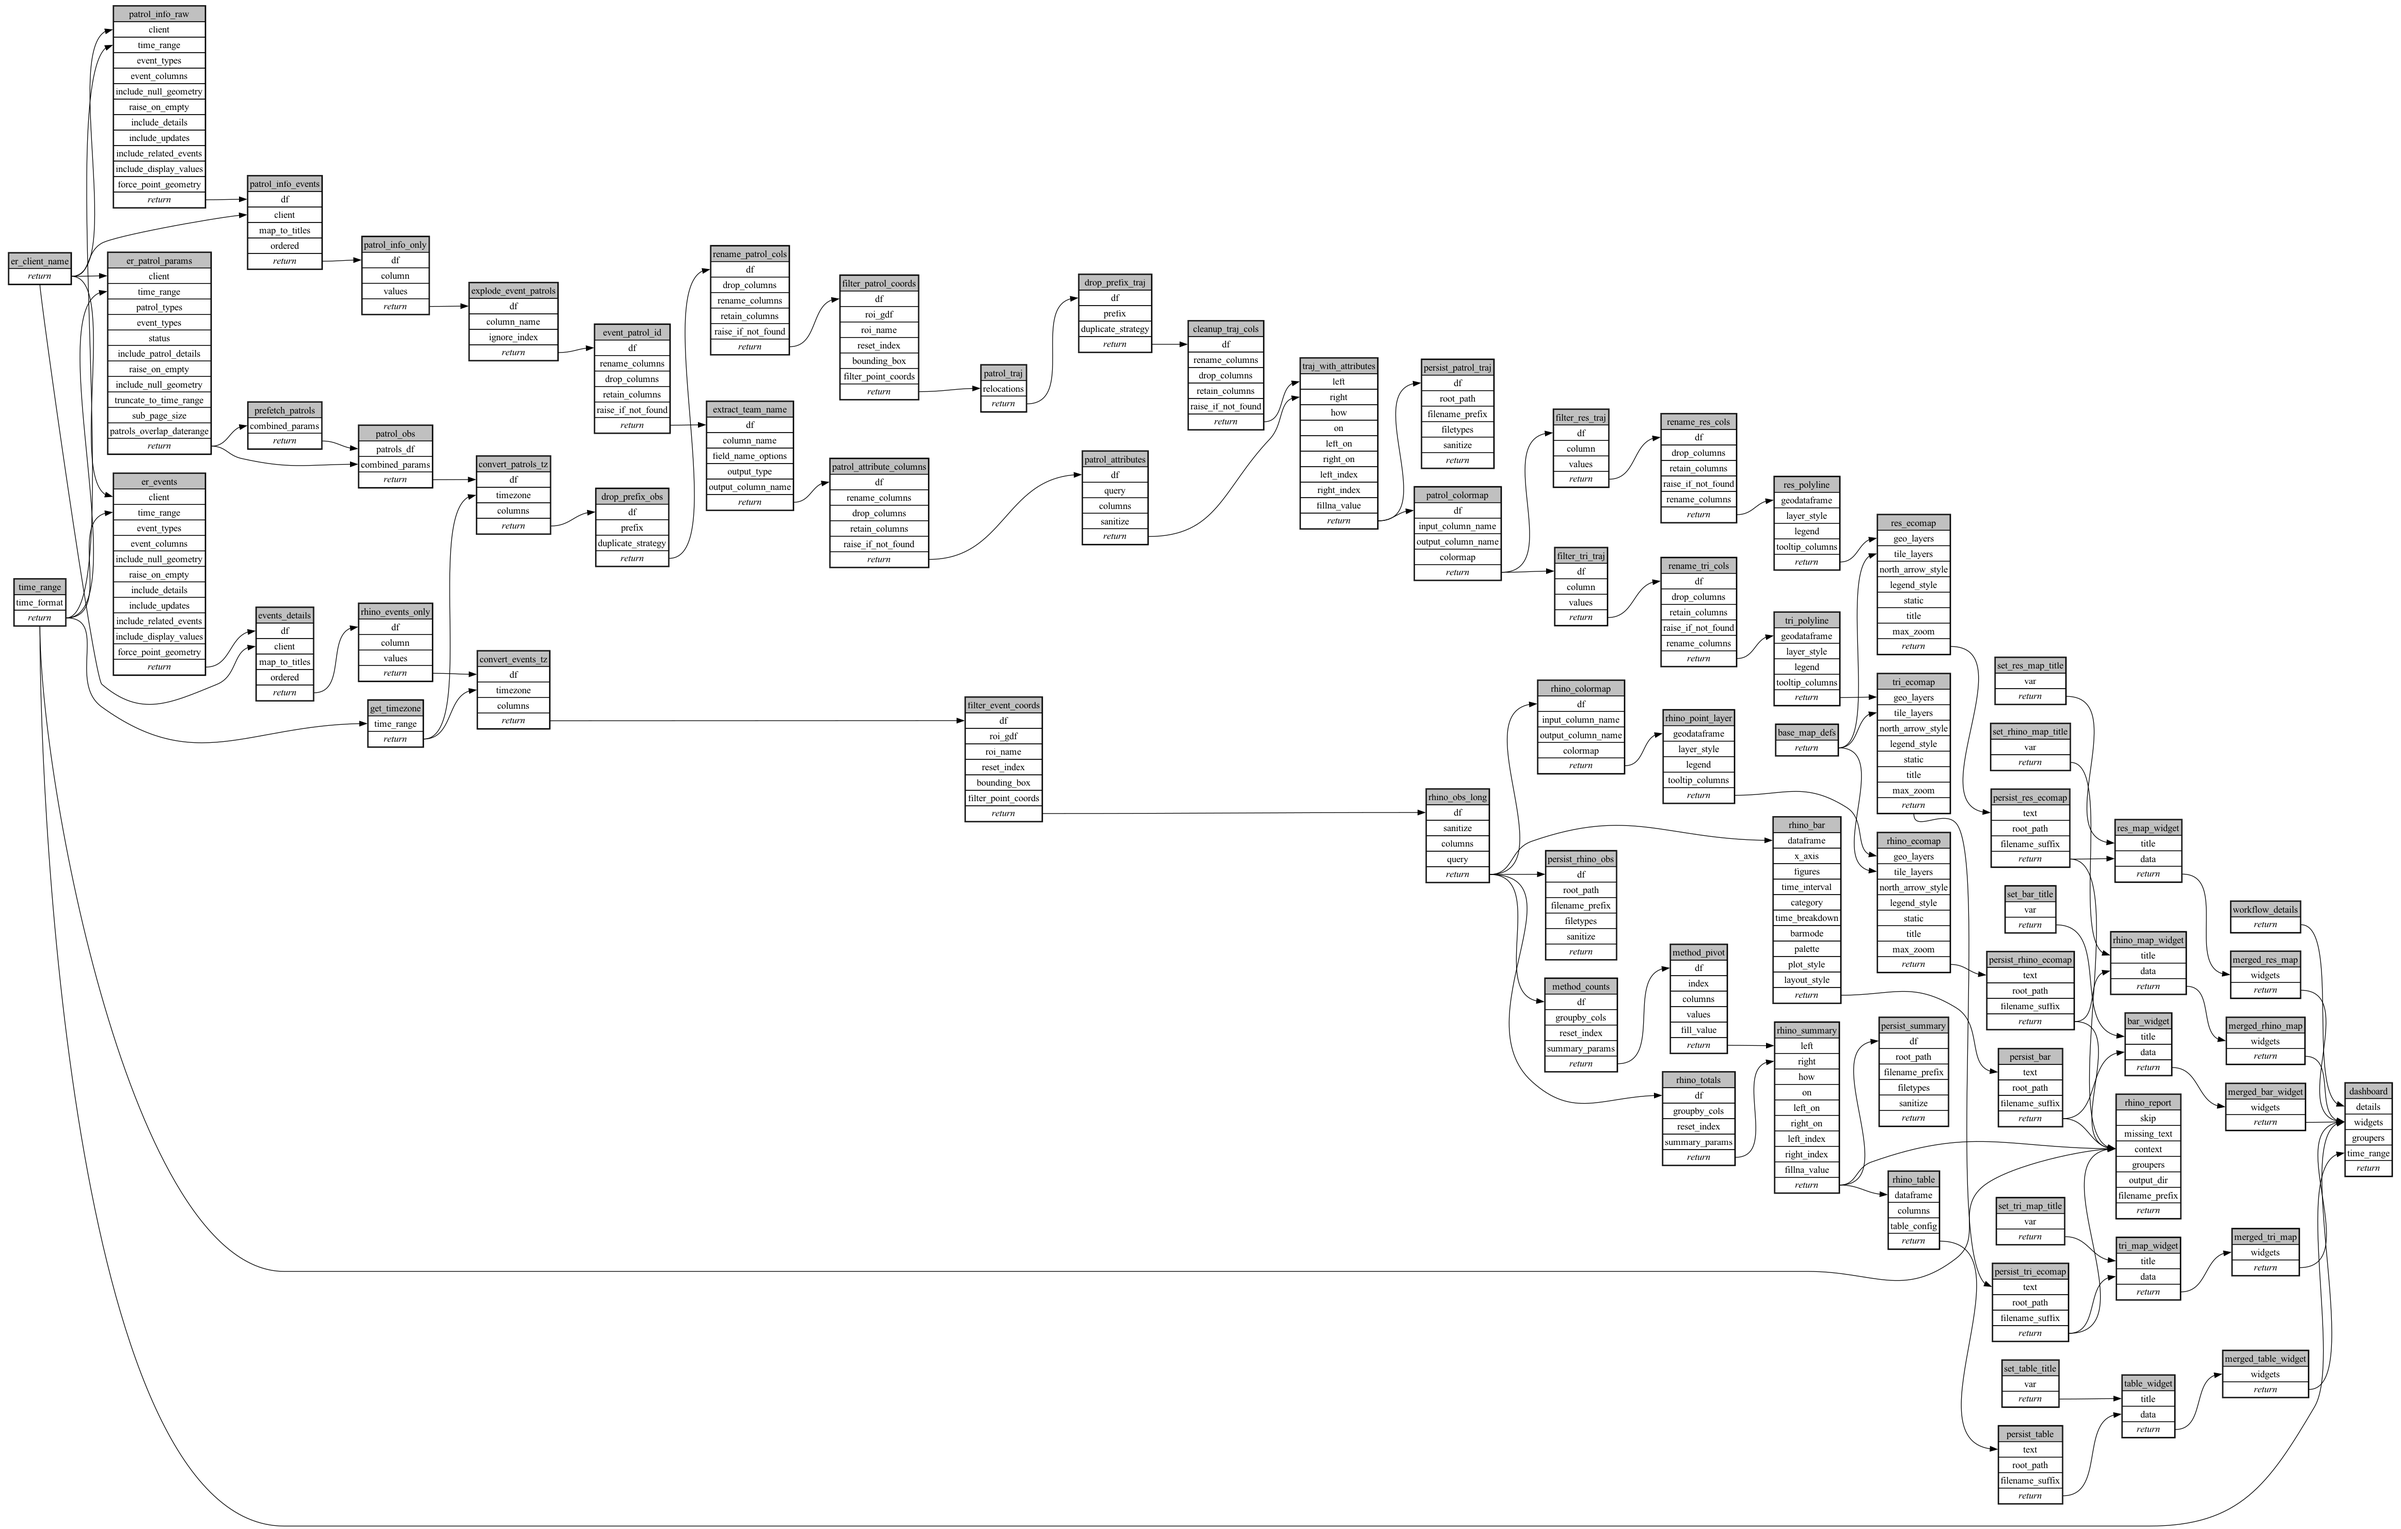
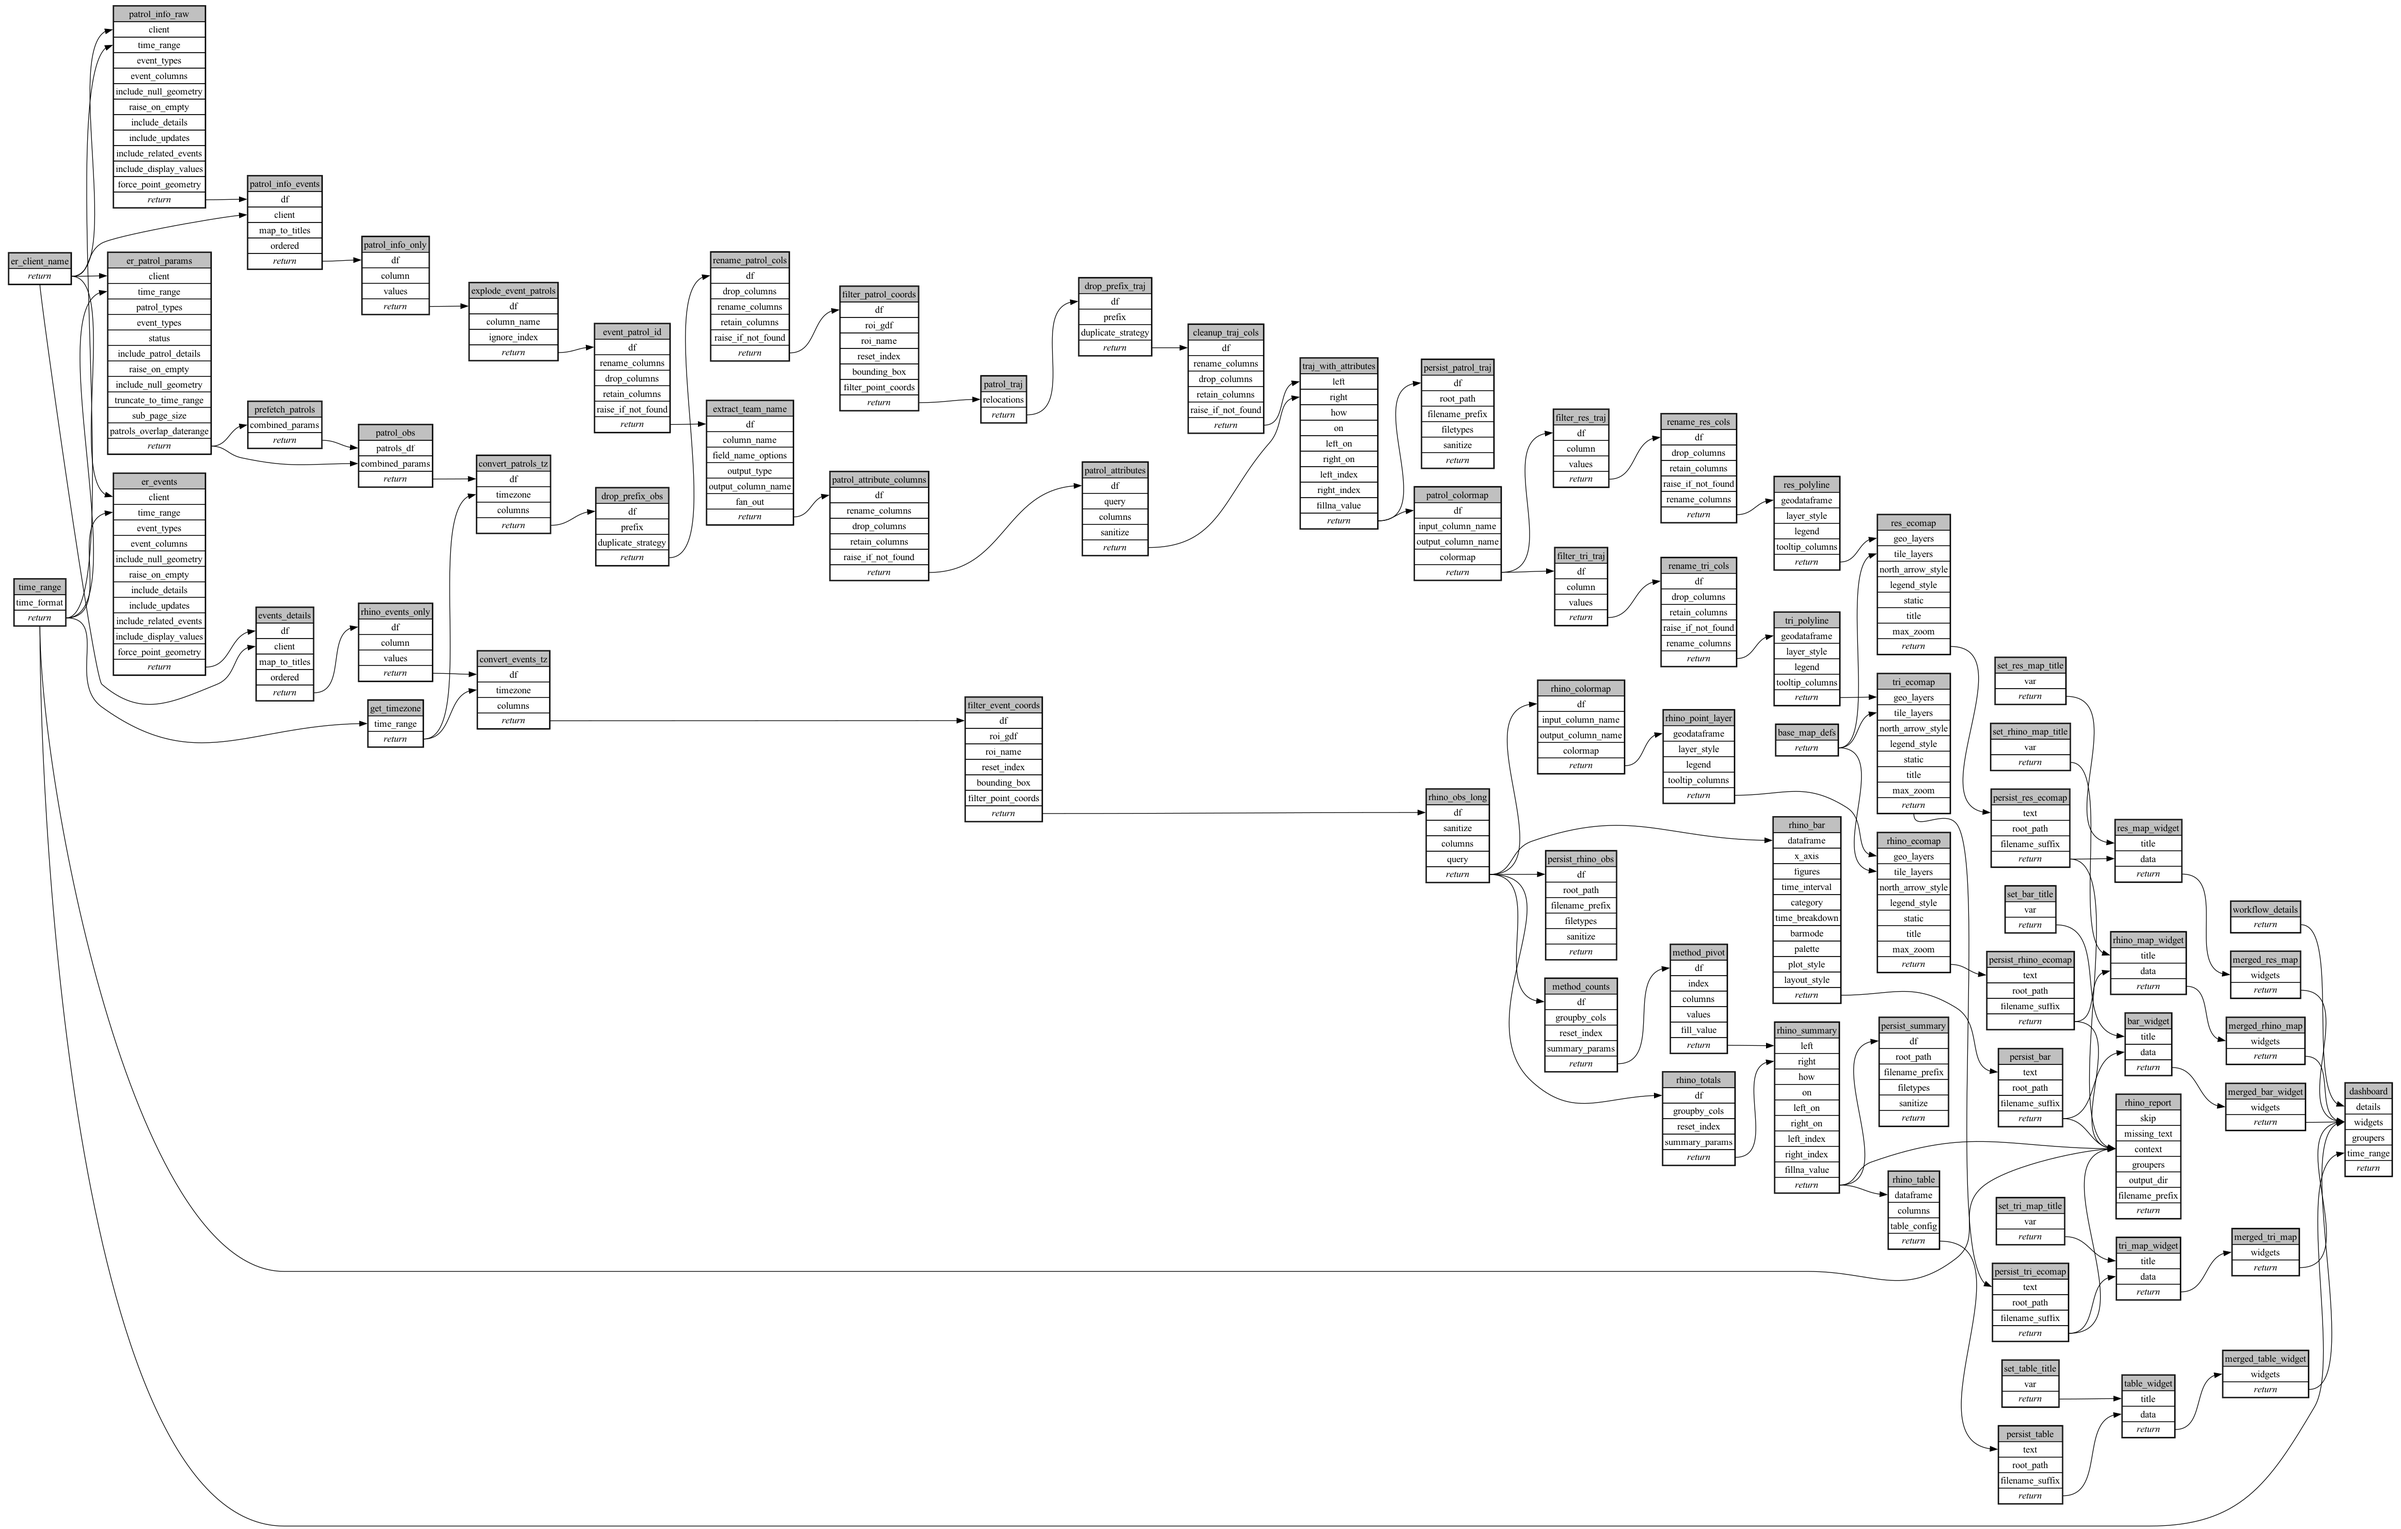
fix: bind fan_out in extract_team_name partial to drop it from the config form
fan_out only applies when output_type is "series"; this task extracts a
str, so the field was inert noise in the Patrol Attributes card. Pinning
it in partial removes it from rjsf.json/params.json and bakes
fan_out=True into the DAGs.

diff --git a/ecoscope-workflows-mt-rhino-workflow/ecoscope_workflows_mt_rhino_workflow/dags/run_sequential.py b/ecoscope-workflows-mt-rhino-workflow/ecoscope_workflows_mt_rhino_workflow/dags/run_sequential.py
@@ -370,6 +370,7 @@ def main(params: dict[str, Any], validate_params_schema: bool = True):
             field_name_options=["Team name", "Team_name"],
             output_type="str",
             output_column_name="team_name",
+            fan_out=True,
             **(params.get("extract_team_name") or {}),
         )
         .call()

diff --git a/ecoscope-workflows-mt-rhino-workflow/ecoscope_workflows_mt_rhino_workflow/dags/run_sequential_mock_io.py b/ecoscope-workflows-mt-rhino-workflow/ecoscope_workflows_mt_rhino_workflow/dags/run_sequential_mock_io.py
@@ -405,6 +405,7 @@ def main(params: dict[str, Any], validate_params_schema: bool = True):
             field_name_options=["Team name", "Team_name"],
             output_type="str",
             output_column_name="team_name",
+            fan_out=True,
             **(params.get("extract_team_name") or {}),
         )
         .call()

diff --git a/ecoscope-workflows-mt-rhino-workflow/README.md b/ecoscope-workflows-mt-rhino-workflow/README.md
@@ -5,8 +5,8 @@
 
 ```yaml
 # fingerprint:
-artifacts_sha256_basic: 493fbe44ef07952713c69b0ee3a98a57fb30cde7b60159b73e251b308e4fd4d9
-artifacts_sha256_strict: 98ae2fdb2c6dc30c86b7be09953b53cdb86b437c0f63f215ee7c00c704268093
+artifacts_sha256_basic: 79b61758dbdcfd5a35f710834c2167ca8a1cb5efa0aadc47b591215275288631
+artifacts_sha256_strict: 30890e5d1a7d0e3d55468a8b69e0a914c4dd27b36c3a0f7eef8a5506bd3ba218
 installed_requirements:
 - channel: https://repo.prefix.dev/ecoscope-workflows/
   name: ecoscope-platform
@@ -17,8 +17,8 @@ installed_requirements:
 - channel: conda-forge
   name: pydeck
   version: {version: ==0.9.2}
-params_sha256: d6ea4eb6065db6dc9066b55c20466be5407284cbf39a63ab94279077e825f1f8
-spec_sha256: d6a4eb484be6bbc76718ea062da4fffdf815fddca87338a9b76b0babef130d21
+params_sha256: 1a0f38dbd6bfc7d19fc5cdf77cfc081ef4f9260038f0f2dd625de125eb03f350
+spec_sha256: 36129e2fb9a6d84eaf55cbbabac5dc62aa68ae18d941c4f0d9c1207e048162a5
 
 ```
 
